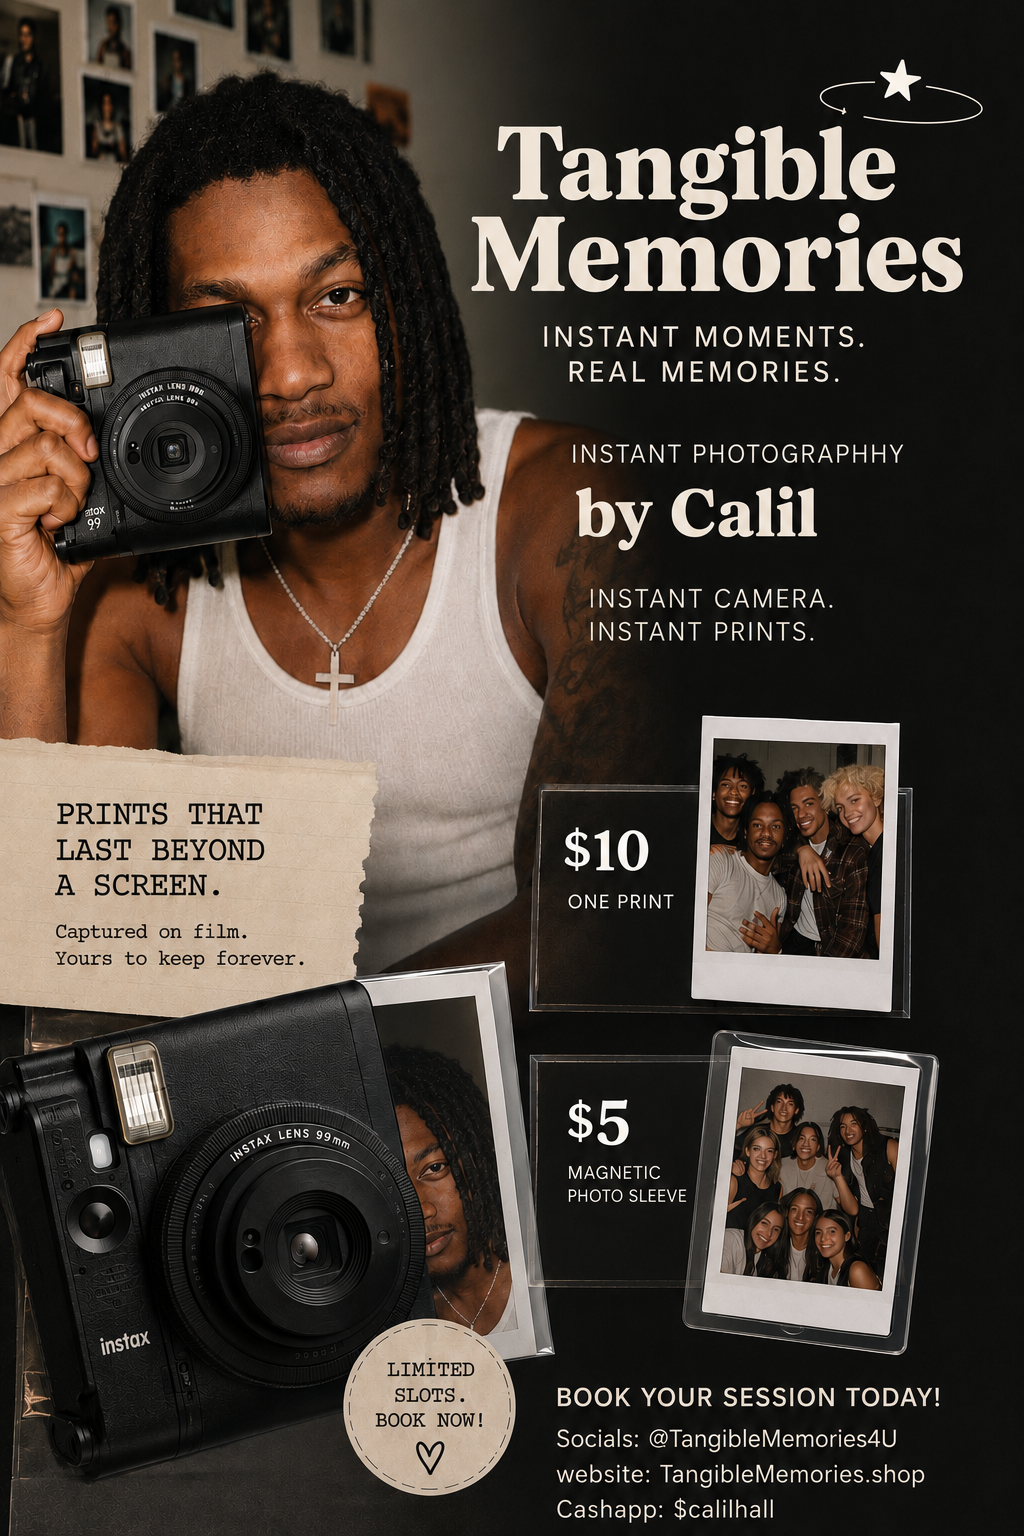
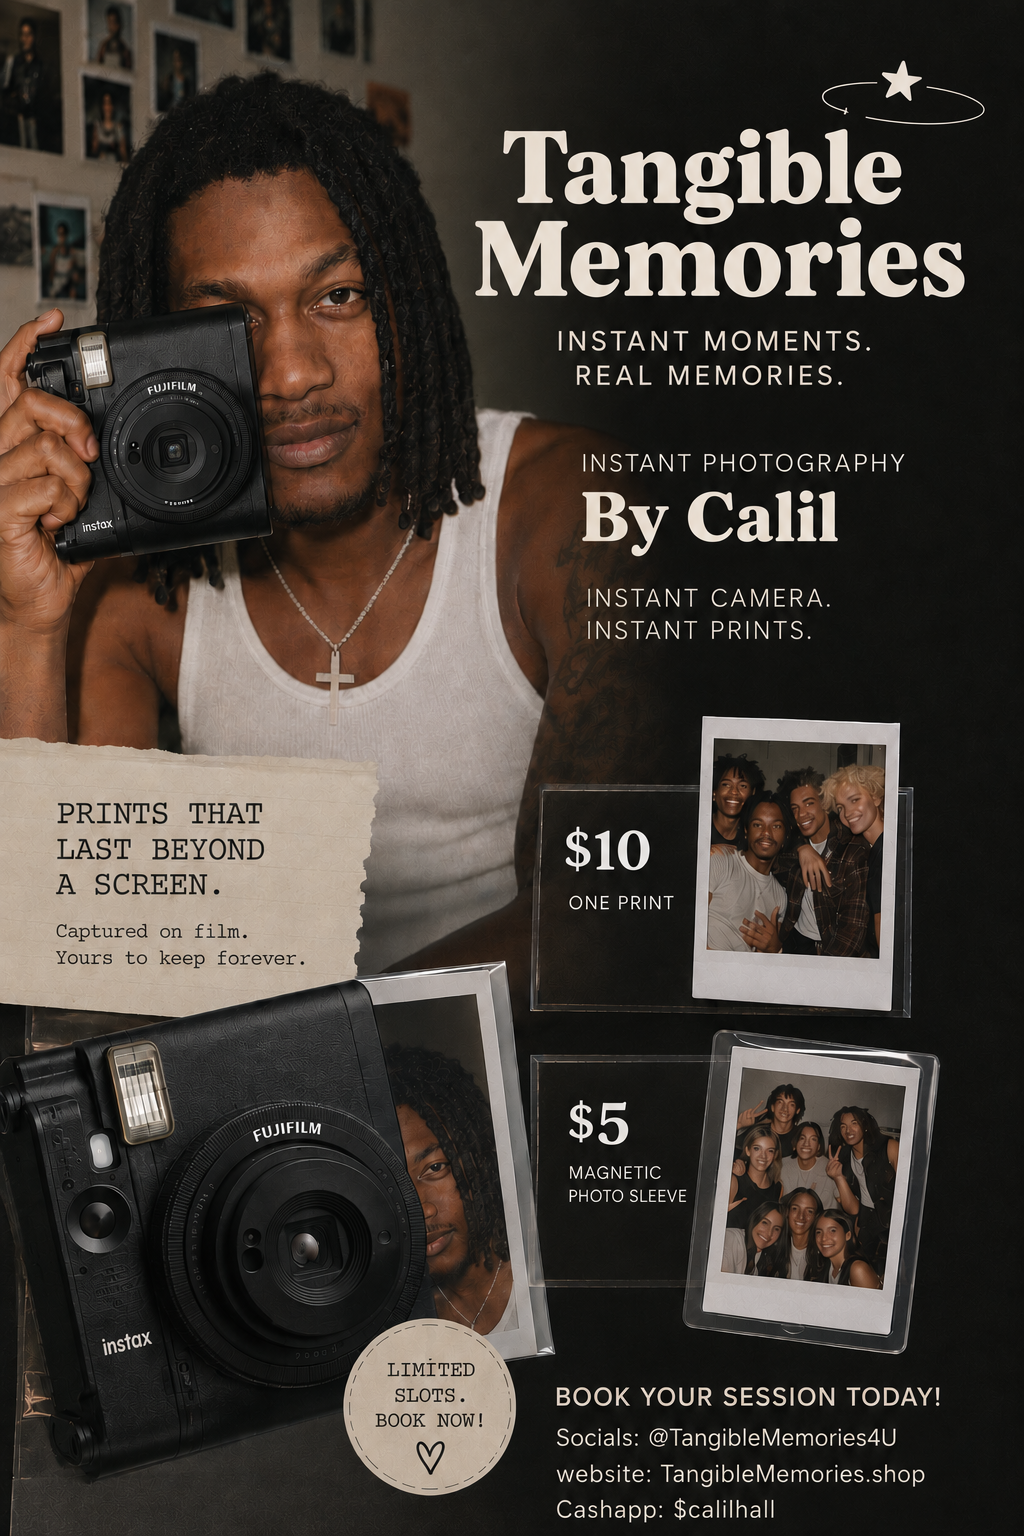
Replace hero poster with corrected version (fixes PHOTOGRAPHHY typo)

diff --git a/CLAUDE.md b/CLAUDE.md
@@ -32,7 +32,30 @@ Single static HTML file, framework-free. Chosen because it's a small one-form ma
 step, hosts anywhere. Keep it that way unless the scope grows (e.g. a CMS-backed gallery), in which case
 Astro or Next.js static export is the intended path.
 
-## Hosting & deployment — LOCKED
+## Hosting & deployment — LIVE
+**Live at https://tangiblememories.shop** (verified loading over HTTPS, 2026-07-27).
+
+- **GitHub repo:** https://github.com/Calil-Hall/tangible-memories (public, branch `main`).
+- **Railway:** project `pleasing-victory` → service `tangible-memories`, env `production`, region US West.
+  Auto-deploys on push to `main`. Railway-provided domain: `tangible-memories-production.up.railway.app`.
+- **Target port: 8080.** Railway injects `PORT=8080`; `server.js` reads `process.env.PORT`.
+  The 3000 fallback is local-only — do NOT hardcode 3000 anywhere.
+- **DNS (Namecheap, BasicDNS):**
+  | Type | Host | Value |
+  |---|---|---|
+  | ALIAS | `@` | `wkdwyh27.up.railway.app` |
+  | TXT | `_railway-verify` | `railway-verify=6fab9da6ea9a1cd452b9a67c37d8fb81fe6cc502ecd477f195b5ada01abd2b9e` |
+  ALIAS (not CNAME) because CNAME is invalid at a domain apex. Both records required — with only
+  the ALIAS, Railway returns 404 until the TXT verifies ownership.
+- Note: Railway's dashboard lagged on "Waiting for DNS update" after the domain was already serving
+  correctly. Trust the live URL over the dashboard status.
+
+### Plan constraints — ACTION NEEDED
+- Railway **Trial**: showed "18 days or $5.00 left" on 2026-07-27. **The service goes offline when the
+  trial ends** — a paid plan is required to stay live.
+- Trial caps **1 custom domain**, already used by the apex. `www.tangiblememories.shop` cannot be added
+  without upgrading.
+
 **Host: Railway. Source of truth: a GitHub repo that Railway watches (push-to-deploy).**
 - Local git repo initialized on branch `main`. First commit: `64cf203`.
 - Railway builds with Nixpacks and runs `node server.js` (per `railway.json`); `server.js` reads
@@ -82,12 +105,16 @@ After any sandbox-side git write, tell the user to run:
 5. **Gallery uses placeholders** until real photos are supplied; swap them in with descriptive alt text.
 
 ## Open items (need input from Calil)
-1. **Push to GitHub + connect Railway** — repo is local-only; no remote configured yet. Top blocker for going live.
-2. Stripe (or other) account → a Payment Link for the $50 deposit, to put in `depositLink`.
-3. Where form submissions should go (email, Formspree/Resend endpoint, or a Sheet) → `formEndpoint`.
-4. Real session photos for the gallery, with alt text.
-5. City/location and availability to state on the page.
-6. Group/event pricing — quoted privately, or publish a range?
+1. **Railway trial expires (~14 Aug 2026)** — site goes offline without a paid plan. Top priority.
+2. ~~**Poster typo**~~ — RESOLVED 2026-07-27. Calil supplied a corrected poster; it now reads
+   "INSTANT PHOTOGRAPHY By Calil". Swapped into `assets/hero-poster.png` (1024×1536, md5 `8644ff94…`).
+   The source file `Hero Image.png` is gitignored to avoid committing a duplicate.
+3. Stripe (or other) account → a Payment Link for the $50 deposit, to put in `depositLink`.
+4. Where form submissions should go (email, Formspree/Resend endpoint, or a Sheet) → `formEndpoint`.
+   Until then the form copies the request to the clipboard rather than sending it.
+5. Real session photos for the gallery — still four "Session print coming soon" placeholders live on the site.
+6. City/location and availability to state on the page.
+7. Group/event pricing — quoted privately, or publish a range?
 
 ## Suggested connectors (not yet authorized)
 - **Stripe** — create the $50 deposit Payment Link → `depositLink`.
@@ -140,3 +167,19 @@ After any sandbox-side git write, tell the user to run:
   through the proxy. **Rendering must be done by Calil locally** (`npm start` → open localhost:3000).
   Do not claim visual fidelity, font loading, marquee motion, or the mobile book bar look correct
   until someone has actually looked at them.
+
+### 2026-07-27 — shipped: GitHub → Railway → custom domain, and FIRST REAL RENDER
+- Created the GitHub repo via browser (connector still unauthorized): `Calil-Hall/tangible-memories`,
+  public, empty at creation so it wouldn't conflict. Calil pushed from Terminal; 8 files landed,
+  2.28 MiB. Verified the file list on GitHub — no `.DS_Store`, no zip, no duplicate poster.
+- Railway deployed from `main`. Added custom domain `tangiblememories.shop`, target port **8080**
+  (auto-detected by Railway — this corrected my earlier guess of 3000).
+- Calil added the ALIAS + TXT records at Namecheap. **Verified https://tangiblememories.shop loads
+  the real site over HTTPS with a valid cert.**
+- **RESOLVED: the long-standing "never rendered" gap.** Loaded the live site in a real browser and
+  confirmed section by section: marquee, sticky nav, hero (Caprasimo + Figtree both loading), tag row,
+  manifesto, how-it-works, gallery, order builder, dark booking panel, footer. Interactively clicked
+  the steppers on production — 3 prints + 2 sleeves → **$40**, and the order echo tracked it correctly.
+- **Found: poster typo** "INSTANT PHOTOGRAPHHY" (see Open items #2).
+- **Still unverified: mobile.** Browser resize did not affect the render, so the sticky book bar has
+  never been seen. Needs a check on a real phone.
